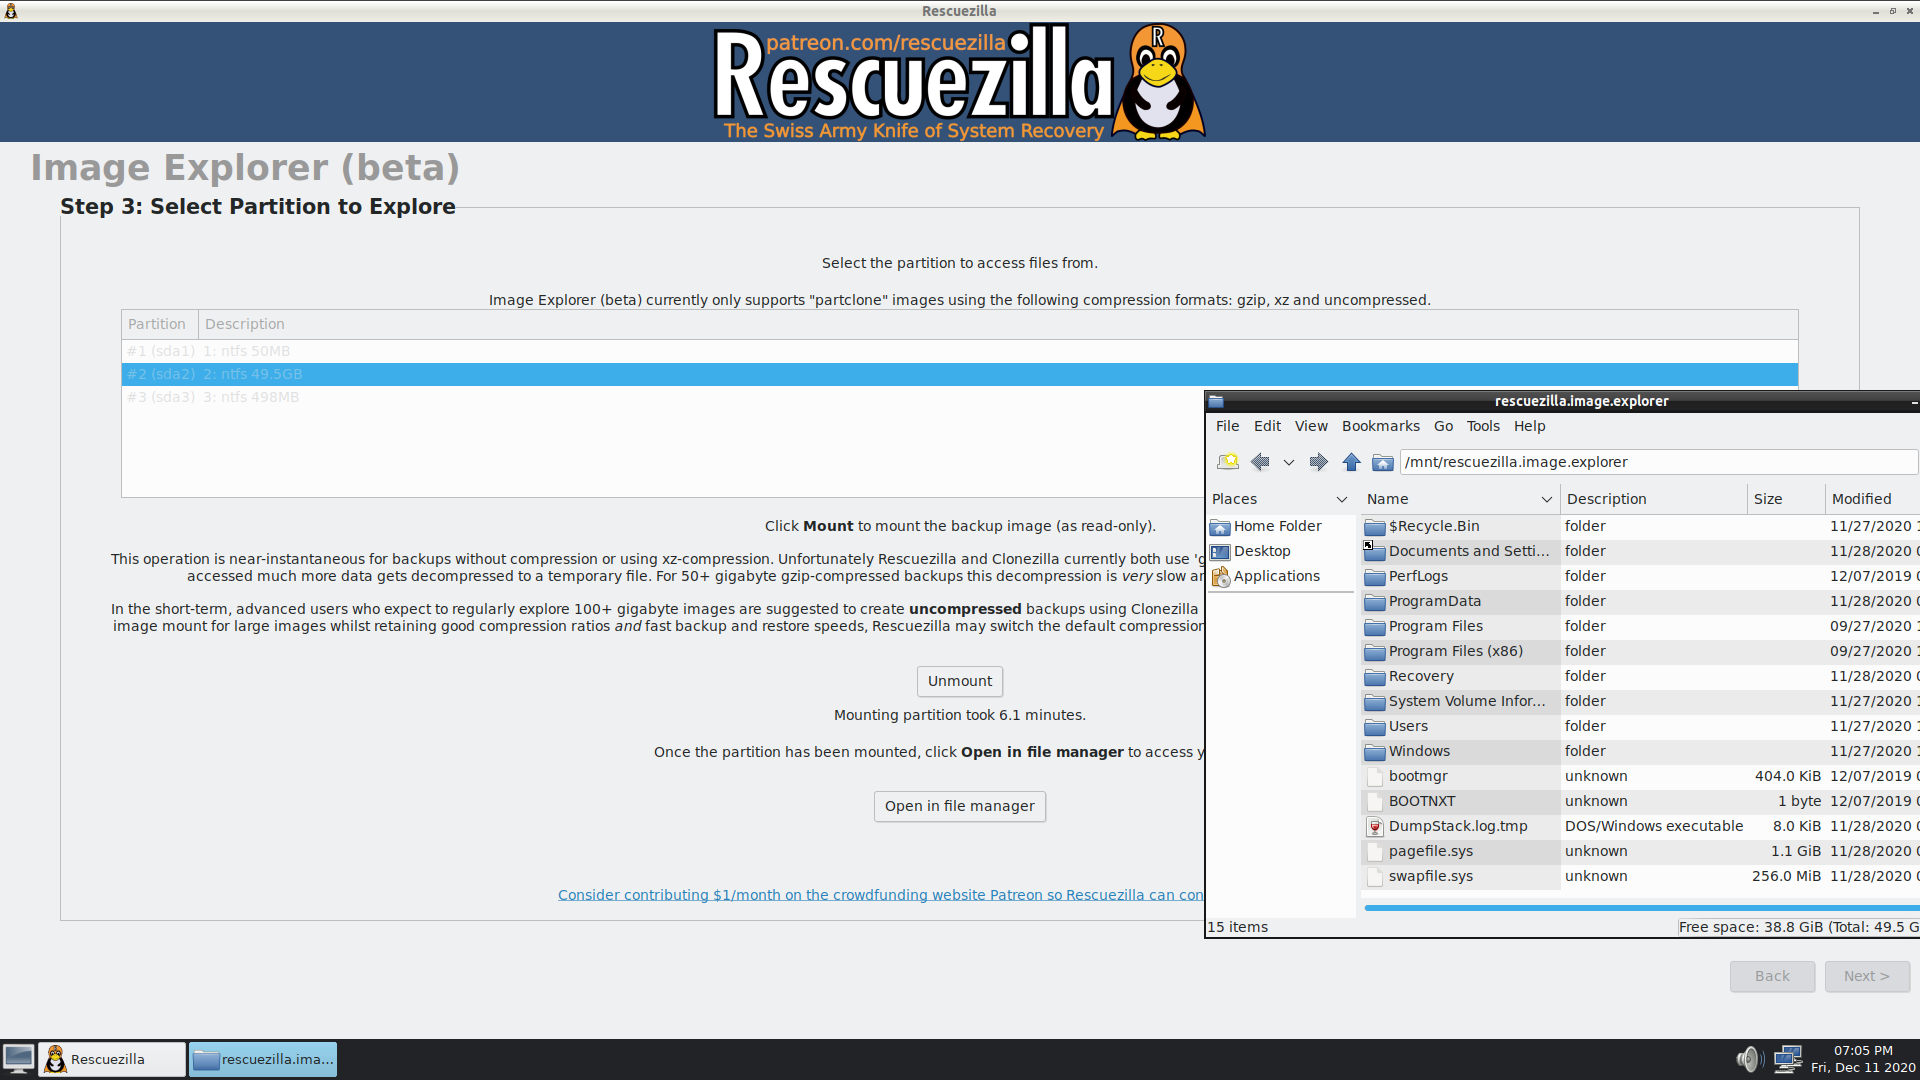
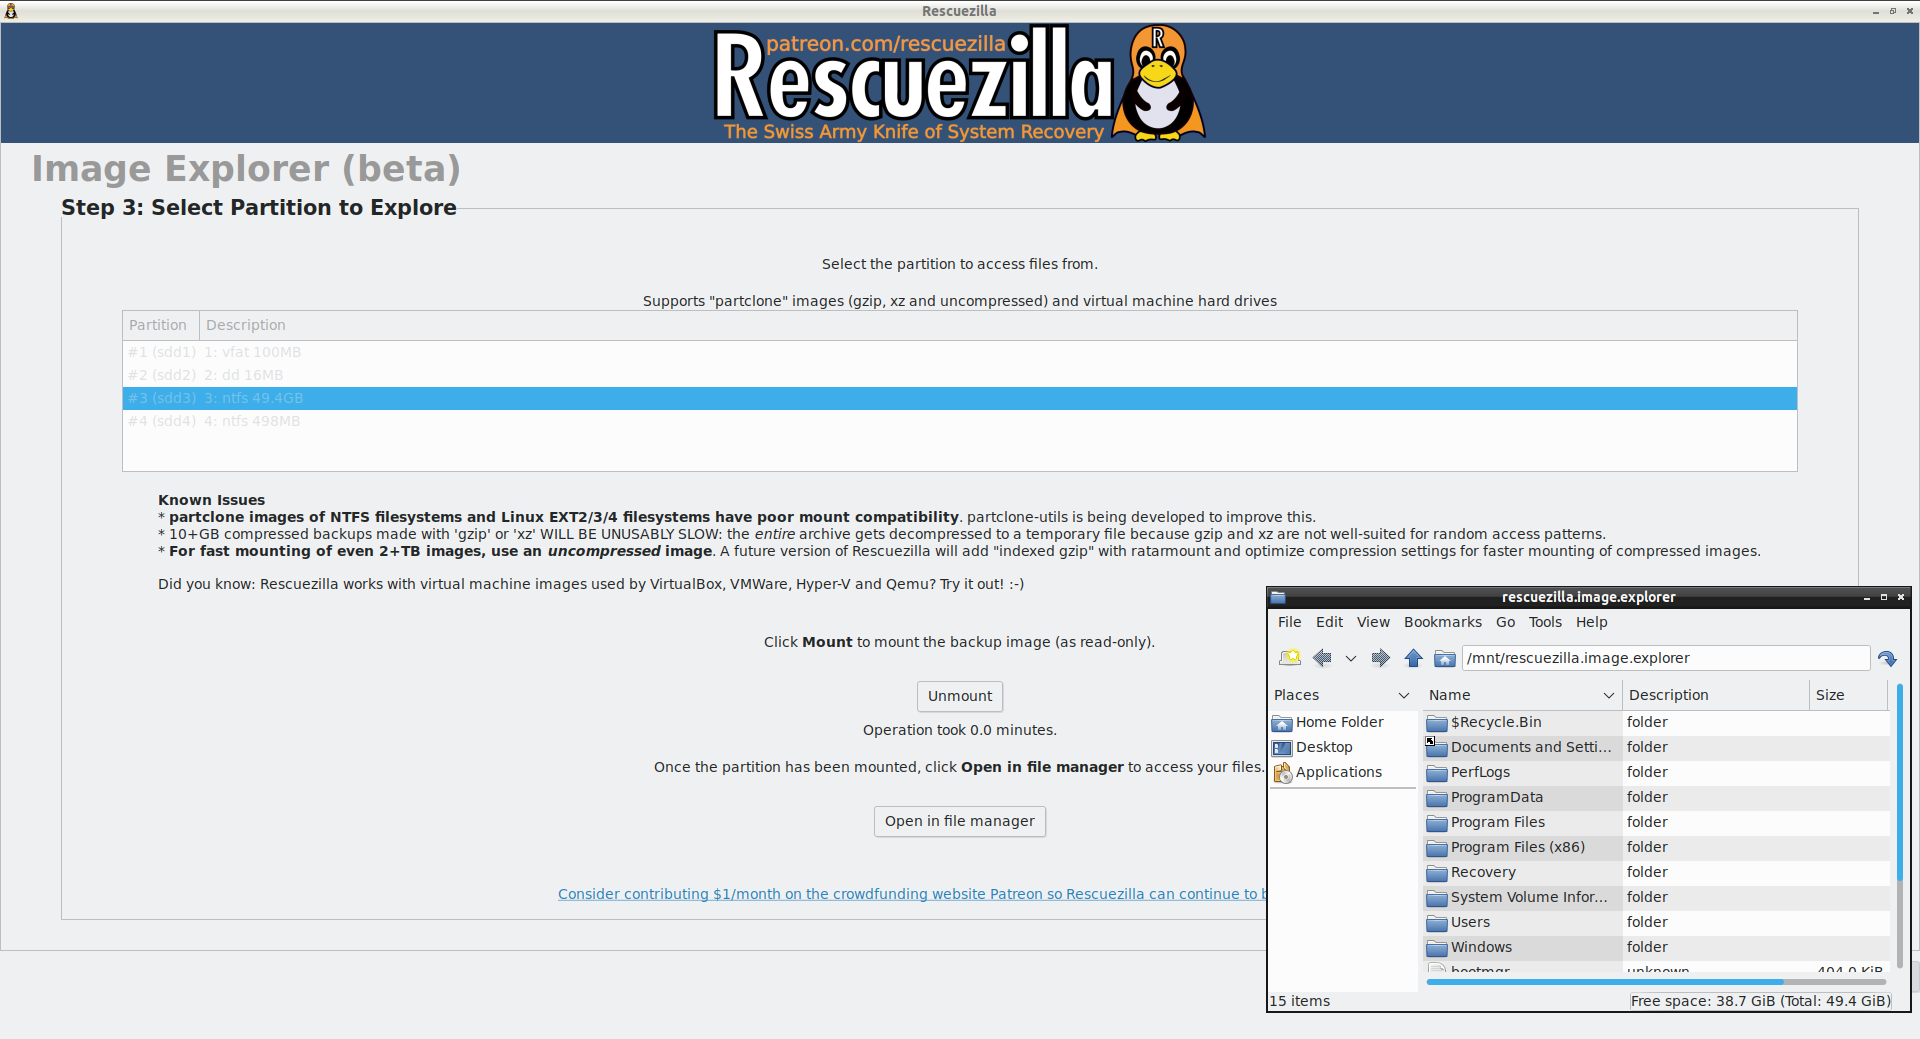
Updates webpage for Rescuezilla v2.2

diff --git a/help.html b/help.html
@@ -46,37 +46,21 @@
 <p>Please check if your question is answered below. If you don't find the answer here, please search the <a target="_blank" href="https://github.com/rescuezilla/rescuezilla/issues">GitHub issues</a> before proceeding to the <a target="_blank" href="https://sourceforge.net/p/rescuezilla/discussion/">Rescuezilla Sourceforge forum</a> where world-class support is provided to as many users as possible.</p>
 <h2>Frequently Asked Questions</h2>
 <div class="faq rounded">
-  <h3>Is Rescuezilla a drop-in replacement to Clonezilla?</h3>
-  <p>Yes. Since v2.0, Rescuezilla can restore backups created by Clonezilla, and backups created by Rescuezilla can be restored using Clonezilla.</p>
-  <p>Clonezilla will always have more options to tweak than Rescuezilla, but Rescuezilla can still restore images created with these options. For example, in Clonezilla you can go into "Expert mode" and select from 10 different compression algorithms, and change the imaging tool from the default "partclone" to others like "partimage", "ntfsclone" or "dd". Rescuezilla might add some of these advanced configuration options, but until then you can simply create your backups using Clonezilla with whatever advanced options you like and then restore them using Rescuezilla.</p>
+  <h3>Q: Does Rescuezilla support restoring and cloning to <em>smaller</em> disk? Eg, 1000GB HDD to 500GB SSD</h3>
+  <p>Restoring to smaller disks requires a <a target="_blank" href="https://github.com/rescuezilla/rescuezilla/wiki/HOWTO:-Restoring-to-a-smaller-disk.-Eg,-1000GB-HDD-to-500GB-SSD">workaround</a> that first uses the GParted Partition Editor to first resize the source disk. If you are not familiar with GParted, consider creating an unmodified backup image first and be extremely careful.</p>
+  <p>I have determined a pathway to add <a target="_blank" href="https://github.com/rescuezilla/rescuezilla/issues/18#issuecomment-834179224">automatically restoring to partitions smaller than original (task #18)</a>, but it won't be completed for some time.</p>
 </div>
 <div class="faq rounded">
-  <h3>Q: Does Rescuezilla support cloning?</h3>
-  <p>A: Unfortunately, Rescuezilla does not yet support "cloning" (which Clonezilla calls "device-device" mode). Rescuezilla currently only supports "imaging" (what Clonezilla calls "device-image" mode). In other words, a backup operation copies your harddrive to files that need to be stored on a hard drive at least temporarily before it can be restored. This feature request is being tracked by <a target="_blank" href="https://github.com/rescuezilla/rescuezilla/issues/47">GitHub task #47</a>.</p>
-</div>
-<div class="faq rounded">
-  <h3>Q: Rescuezilla backup and restore is running VERY slow for me. How do I fix this?</h3>
-    <p>A: Rescuezilla v2.0 had an issue where image compression was being done as a single-thread operation instead of multithreaded. This has been resolved on Rescuezilla v2.1 and newer.</p>
-    <p>Also, on machines with 16GB of RAM or greater, backup/restore speeds become intolerably slow when using the 32-bit version of Resecuezilla. On machines 64-bit machines with 16GB of RAM or greater, always use the 64-bit version of Rescuezilla.</p>
-</div>
-<div class="faq rounded">
-  <h3>Q: Is Rescuezilla related to Redo Rescue?</h3>
-  <p>A: Kind of. Both are independent projects originally built upon the same base, but have different goals and methadologies so are developed separately.</p>
-  <p>Launched in November 2019, Rescuezilla is a fork of an old application named <em>Redo Backup and Recovery</em> after it had been abandoned by its original author since 2012 (leaving hundreds of open forum threads including many users struggling to restore important data without any support being provided).</p>
-  <p>In June 2020, the original <em>Redo Backup and Recovery</em> author suddenly resurfaced after a 7.5 year absence and released a new version named &ldquo;<a target="_blank" href="https://sourceforge.net/p/redobackup/discussion/general/thread/d0e37c4750/">Redo Rescue</a>&rdquo; and deleted all of the user-support that Rescuezilla was systematically providing to the hundreds of open forum threads.</p>
-  <p>Rescuezilla is fully interoperable with Clonezilla and has a much broader goals, including eventually adding support for Redo Rescue image format.</p>
+  <h3>Q: I am having trouble connecting to a SMB/CIFS (Samba) network shared folder</h3>
+  <p>A: First make sure the server field has the correct UNC path (eg "\\fileserver\Users\fred\MySharedFolder"), username and password.</p>
+  <p>Some network shares may not support the default SMB 3.1.1 protocol, so <strong>you should try '2.1' or even '1.0' in the version field. This is often the case with NAS devices and older versions of Windows.</strong></p>
+  <p>Please make sure you're using the latest version of Rescuezilla, because there has been improvements around shared folders.</strong></p>
 </div>
 <div class="faq rounded">
 <h3>Q: I restored my Linux backup using Rescuezilla. It boots past the GRUB bootloader fully, but the Linux boot gets stuck at "Rescue Mode" login prompt. How do I fix this?</h3>
 <p>A: For modern systemd Linux environments (such as Ubuntu 18.04), the partitions listed in the /etc/fstab file <i>must</i> be present for the system to complete booting. This means if the hard drive environment does not match exactly, the system will enter Rescue Mode until the /etc/fstab is modified to only refer to the drives which are present in the system.</p>
 <p>Fixing a machine in this situation requires logging in at the Rescue Mode prompt, remounting the root partition as read/write, modifying /etc/fstab to remove the line of the partition which is no longer present, then remounting the root partition as read-only before hard rebooting the machine. There are plenty of guides on the internet to help fix this particular issue. If you need further help, post on the <a target="_blank" href="https://sourceforge.net/p/rescuezilla/discussion/">support forum</a> and you will receive detailed assistance for as long as it takes to fix your issues.</p>
 <p>Please note, in some older Linux distributions it's not the partition's UUID that is used by /etc/fstab but the partition's device node (eg. /dev/sdc1). This means the Linux boot is expecting a hard drive connnected to an identical numbered SATA port! But don't worry, any problems can be resolved by modifying /etc/fstab. As mentioned, if you need more help please ask for it on the <a target="_blank" href="https://sourceforge.net/p/rescuezilla/discussion/">support forum</a>.</p>
-</div>
-<div class="faq rounded">
-  <h3>Q: I am having trouble connecting to a network shared folder using SMB/CIFS?</h3>
-  <p>A: First make sure the fields have the correct UNC path (eg "\\fileserver\johnsmith") and username/password. Some network shares may not support the default SMB 3.1.1 protocol, so you may need to enter '2.1' or even '1.0' in the version field.</p>
-  <p>It has been reported that to connect to an anonymous/unauthenticated shared folder the username field needs to be filled with a single asterisk character (&#42), despite the field being marked as optional. This will be improved in the next version.</p>
-  <p>Rescuezilla v2.0 had an issue where the version field didn't work correctly, but this has been resolved on Rescuezilla v2.1 and newer.</p>
 </div>
 <div class="faq rounded">
   <h3>Q: How do I install new software packages?</h3>
@@ -96,6 +80,7 @@
     <li>Please double-check you are using the <a href="https://github.com/rescuezilla/rescuezilla/releases/latest">latest version</a> of Rescuezilla, and check whether the bug is already listed in the Bug Advisories table.</li>
     <li>Is the problem the result of the Rescuezilla program, or is it a hardware incompatibility issue that should be reported to Ubuntu Linux?</li>
     <li>If you provide the steps, can the error be reproduced by the Rescuezilla developer?</li>
+    <li>If you want to take a screenshot, you can do this by pressing the Print Screen key (use Alt - Print Screen to capture only the current window). The screenshot application can directly upload to Imgur, so you can easily share the public URL in your bug report.</li>
 </ul>
 <strong>Create a </strong><a href="https://github.com/rescuezilla/rescuezilla/issues" rel="nofollow"><strong>GitHub issue</strong></a> with details of the bug (please attach the log files from your backup folder, and provide as much information as possible)
 <h2>Support</h2>

diff --git a/features.html b/features.html
@@ -44,7 +44,7 @@
         <p><strong>Consider giving the project a like on <a target="_blank" href="https://alternativeto.net/software/rescuezilla/reviews/">AlternativeTo</a> so that more people can discover it! :-)</strong></p>
         </div></div>
     <h1>Features</h1>
-<p>Rescuezilla is the most advanced recovery solution. It is small, fast, and very easy to use, even for everyday computer users.</p>
+<p>Rescuezilla is a backup/recovery solution. It's a Clonezilla GUI that's fast, feature-packed and very easy-to-use, even for everyday computer users.</p>
 <table width="100%" cellspacing="1" cellpadding="1" border="0" id="features">
     <tbody>
         <tr>
@@ -58,23 +58,30 @@
             <td><img width="128" height="128" alt="" src="./media/icons/gui.png" /></td>
             <td>
             <h2>It's Easy-To-Use</h2>
-            <p>Rescuezilla provides a point-and-click interface with network access and a complete operating system (via Ubuntu). Open other applications while your system backup is being transferred.</p>
+            <p>Rescuezilla provides a point-and-click interface with network access and a complete operating system (based on the Ubuntu GNU/Linux distribution). Open other applications while your system backup is being transferred.</p>
             </td>
         </tr>
         <tr>
             <td><img width="128" height="128" alt="" src="./media/icons/clonezilla.png" /></td>
             <td>
             <h2>Fully interoperable with Clonezilla</h2>
-            <p>Rescuezilla has been carefully developed to be fully interoperable with the industry-standard Clonezilla, trusted by tens of millions of individuals and businesses for almost 20 years. Backup images made using Clonezilla can be restored with Rescuezilla, and vice versa!</p>
-            </td>
+            <p>Rescuezilla is the Clonezilla GUI (graphical user interface) that you've always wanted. It is carefully developed to be fully interoperable with the industry-standard Clonezilla, trusted by tens of millions of individuals and businesses for almost 20 years. Backup images made using Clonezilla can be restored with Rescuezilla, and vice versa!</p>
+        </td>
+        </tr>
+        <tr>
+            <td><img width="128" height="128" alt="" src="./media/icons/compatibility.png" /></td>
+            <td>
+            <h2>Works with virtual machine images</h2>
+            <p>Rescuezilla works with images created by virtual machines: VirtualBox (VDI), VMWare (VMDK), Hyper-V (VHDx), Qemu (QCOW2), raw (.dd, .img), in addition to all known open-source imaging frontends (including Clonezilla). For more information checkout the 'compatibility' section of  <a href="https://github.com/rescuezilla/rescuezilla/releases/latest">Rescuezilla GitHub release page</a>.</p>
+        </td>
         </tr>
         <tr>
             <td><img width="128" height="128" alt="" src="./media/icons/image_explorer.png" /></td>
             <td>
             <h2>Extract files from your backup images (beta)</h2>
-            <p>Rescuezilla makes it easy to access your files that are saved within your backup. You won't need to struggle with the command-line!</p>
-            <p>This feature is currently in beta. It's extremely performant for large <em>uncompressed</em> images created by Clonezilla, but is slow for large images using gzip compression (which is what Clonezilla and Rescuezilla currently use by default).</p>
-            </td>
+            <p>Rescuezilla makes it easy to access your files that are saved within all supported backup image formats, including virtual machine images. You won't need to struggle with the command-line!</p>
+            <p>It's great for large <em>uncompressed</em> images (including virtual machine images), but will be too slow for larger images using gzip or zstandard compression until Rescuezilla implements <a href="https://github.com/rescuezilla/rescuezilla/issues/153#issuecomment-763321667">indexed access using ratarmount (task #153)</a>.</p>
+        </td>
         </tr>
         <tr>
             <td><img width="128" height="128" alt="" src="./media/icons/clock.png" /></td>

diff --git a/index.html b/index.html
@@ -44,7 +44,7 @@
       <p><strong>Consider giving the project a like on <a target="_blank" href="https://alternativeto.net/software/rescuezilla/reviews/">AlternativeTo</a> so that more people can discover it! :-)</strong></p>
       </div></div>
     <h1>Disk imaging for all</h1>
-<p><strong>Rescuezilla</strong> is an easy-to-use disk imaging application that's fully compatible with Clonezilla &mdash; the industry-standard trusted by tens of millions.<p>
+    <p><strong>Rescuezilla</strong> is an easy-to-use disk imaging application that's fully compatible with Clonezilla &mdash; the industry-standard trusted by tens of millions.</p>
 <p><strong>Disk imaging makes a backup of your computer's hard drive which is managed as files stored on an external hard drive</strong>. If your hard drive fails, you can restore your disk image and <strong>within a few minutes all your documents and settings will be restored to the exact same state they were in when the last snapshot was taken</strong>.</p>
 
 <p>Rescuezilla lets you <strong>perform backup, restore and recovery actions, even if you aren't able to boot into your regular operating system</strong>. It does not matter if you use Windows, Mac or Linux. It doesn't matter if you can't even login. Download and write the ISO to a USB stick, and reboot your machine. Your computer will load a complete mini operating system with a point-and-click user interface into your computer's memory without writing any information to your hard drive.</p>
@@ -52,8 +52,8 @@
 <div id="intro" class="graybox rounded">
 <div style="text-align: center;"><img width="677" height="173" border="0" alt="bare metal backup and restore" src="./media/intro.jpg" /></div>
 <center><a class="bluebox rounded" id="downloadbox" href="./download.html">
-<h2>Download Version 2.1.3</h2>
-<div style="text-align: center;">Released 2021-01-29</div>
+<h2>Download Version 2.2</h2>
+<div style="text-align: center;">Released 2021-06-04</div>
 </a> </center></div>
 <p><strong><a target="_blank" href="https://www.patreon.com/join/rescuezilla">All users should consider contributing $1/month on the crowdfunding website Patreon so that <strong>Rescuezilla</strong> can continue to be developed.</a></strong></p>
 <h2 style="clear: left;">More Features, Less Complex</h2>
@@ -63,7 +63,8 @@
     <li><strong>No installation needed</strong>; runs from a USB stick or a CD-ROM</li>
     <li>Saves and restores <strong>Windows, Mac and Linux</strong> machines</li>
     <li><strong>Fully interoperable with Clonezilla</strong>, the industry-standard trusted by tens of millions<br /></li>
-    <li>Easily <strong>mount your Clonezilla backup images and copy out your files</strong> (beta)<br /></li>
+    <li>Supports images made by <strong>VirtualBox, VMWare, Qemu and all known open-source imaging frontends including Clonezilla!</strong><br /></li>
+    <li>Easily <strong>mount any supported image and copy out your files</strong> (beta)<br /></li>
     <li>Access your files <strong>even if you can't log in</strong></li>
     <li><strong>Recover deleted pictures,</strong> documents, and other files</li>
     <li><strong>Internet access with a full-featured browser</strong></li>

diff --git a/download.html b/download.html
@@ -48,8 +48,8 @@
 <h2><strong>Getting Started</strong></h2>
 <div class="faq rounded">
 <h3>1. Download the latest live image</h3>
-<p>Download the latest 64-bit version of Rescuezilla: <strong><a href="https://github.com/rescuezilla/rescuezilla/releases/download/2.1.3/rescuezilla-2.1.3-64bit.groovy.iso">rescuezilla-2.1.3-64bit.groovy.iso</a></strong> (recommended).</p>
-<p><strong>Important:</strong> Since v2.0, Rescuezilla creates backups using the Clonezilla image format. <strong>Backups created with Rescuezilla v2.0 or newer cannot be restored using prior versions of Rescuezilla.</strong> Backups created with older versions of Rescuezilla can still of course be restored with v2.0 or newer.</p>
+<p>Download the latest 64-bit version of Rescuezilla: <strong><a href="https://github.com/rescuezilla/rescuezilla/releases/download/2.2/rescuezilla-2.2-64bit.hirsute.iso">rescuezilla-2.2-64bit.hirsute.iso</a></strong> (recommended).</p>
+<p><strong>Important:</strong> Rescuezilla v2.2 creates backups using the Clonezilla image format. <strong>Backups created with Rescuezilla v2.0 or newer cannot be restored using prior versions of Rescuezilla.</strong> Backups created with older versions of Rescuezilla can still of course be restored with v2.2.</p>
 <p>Checkout the Rescuezilla GitHub release page for information about <a href="https://github.com/rescuezilla/rescuezilla/releases/latest">what's new, backwards compatibility, and any bug advisories</a>.</p>
 </p>
 <h3>2. Write the image to a USB</h3>
@@ -76,8 +76,6 @@
 </div>
 
 </center>
-
-
 
 <script type="text/javascript">
   window.onload=function(){
